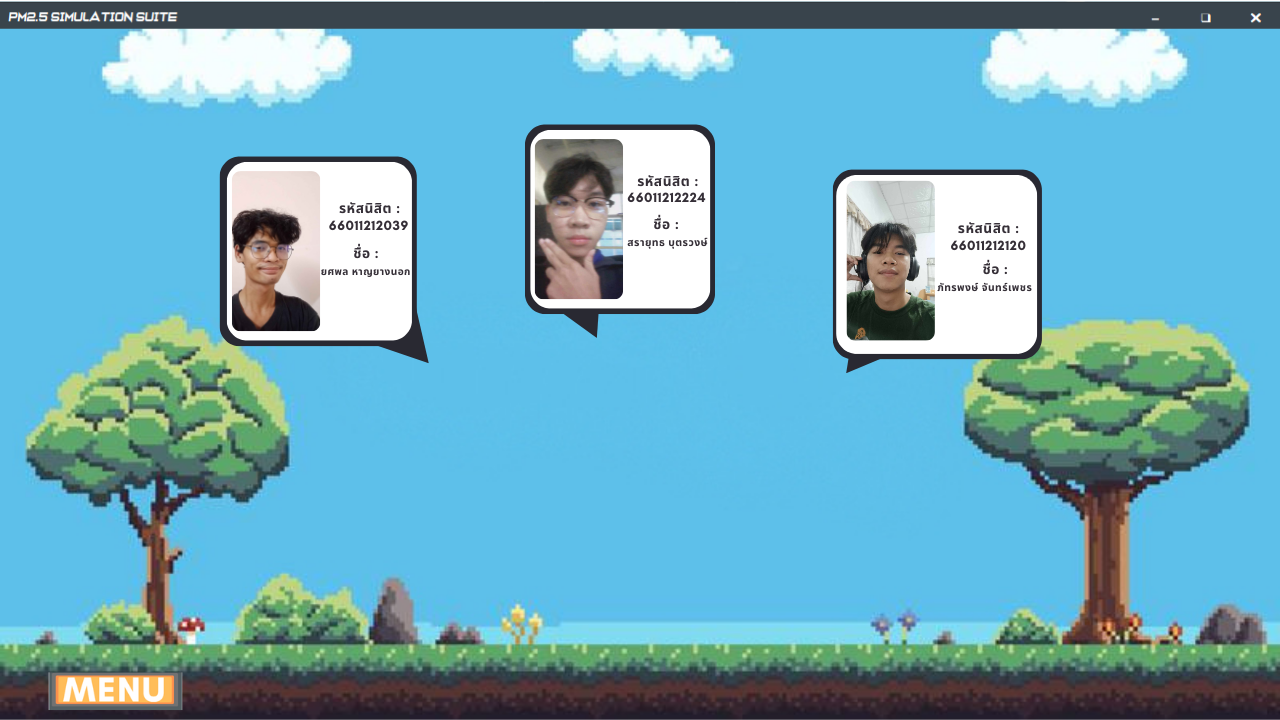
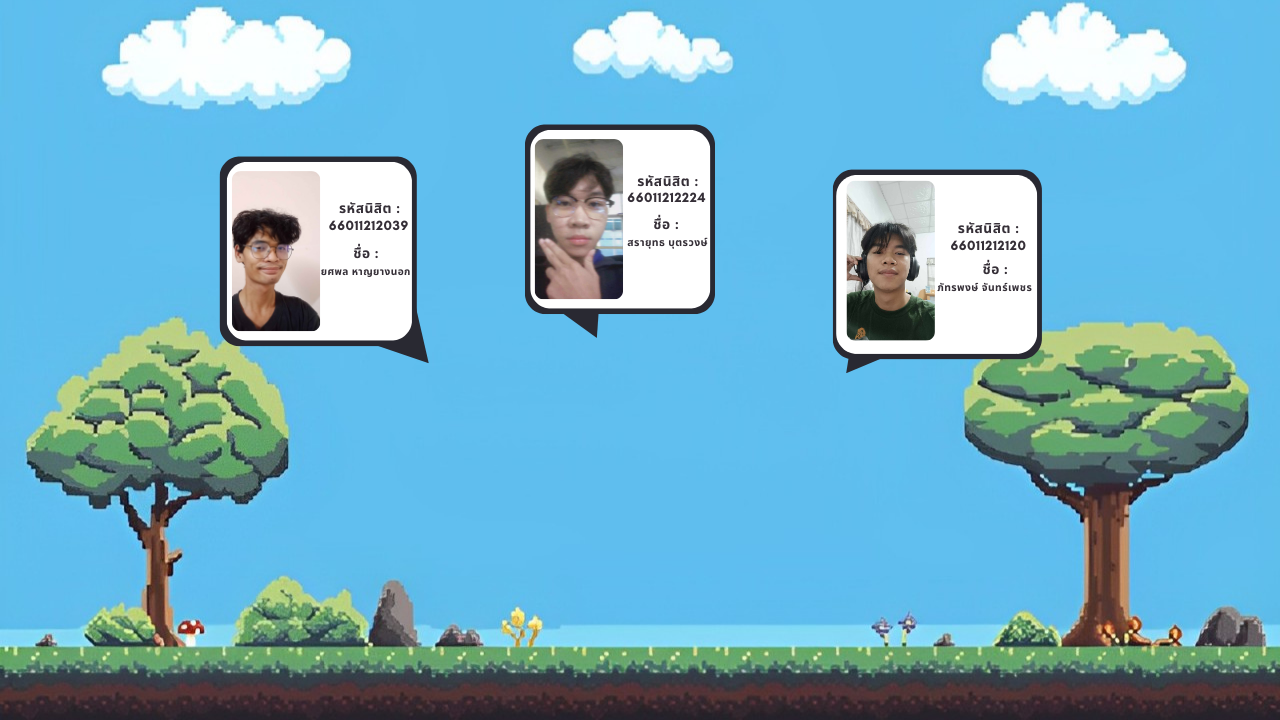
update creator page

diff --git a/main/CreatorPanel.java b/main/CreatorPanel.java
@@ -1,13 +1,37 @@
 package main;
 
+import java.awt.Graphics;
+import java.awt.Image;
+
+import javax.swing.ImageIcon;
+import javax.swing.JLabel;
 import javax.swing.JPanel;
 
 public class CreatorPanel extends JPanel{
-    ControlBar controlBar;
+    private ControlBar controlBar;
+    private JLabel t1;
+    private JLabel t2;
+    private JLabel t3;
     public CreatorPanel(GameWindow gameWindow){
-        setLayout(null);
         controlBar = new ControlBar(gameWindow);
+        t1 = new JLabel(new ImageIcon(getClass().getResource("/Creator/FARM.gif")));
+        t2 = new JLabel(new ImageIcon(getClass().getResource("/Creator/SARAYUTGAMES.png")));
+        t3 = new JLabel(new ImageIcon(getClass().getResource("/Creator/SKYWAVE101.gif")));
+
+        setLayout(null);
+        t1.setBounds(350, 350, 200, 300);
+        t2.setBounds(555, 345, 200, 300);
+        t3.setBounds(760, 350, 200, 300);
+        add(t1);
+        add(t2);
+        add(t3);
         add(controlBar);
     }
 
+    @Override
+    protected void paintComponent(Graphics g) {
+        Image backgroundImage = new ImageIcon(getClass().getResource("/Creator/CreatorBG.png")).getImage();
+        super.paintComponent(g);
+        g.drawImage(backgroundImage, 0, 0, getWidth(), getHeight(), this);
+    }
 }
